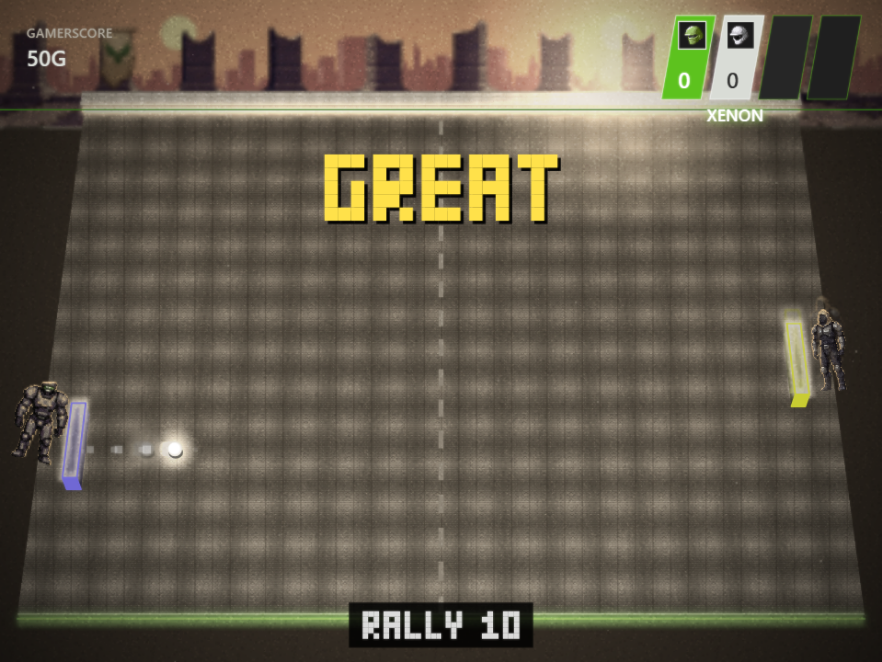
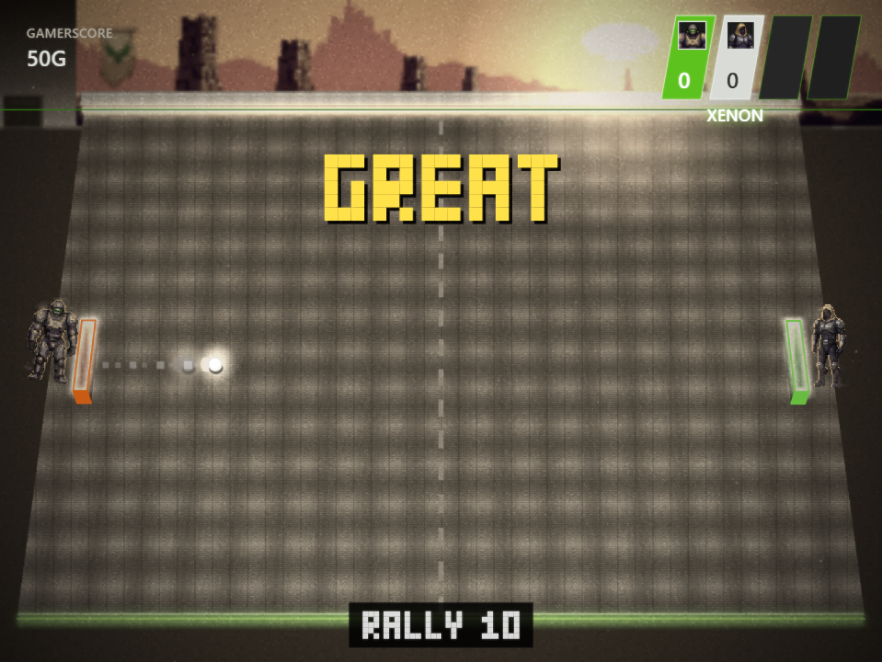
item 1234: the ruin plate drawn once, twice as wide, so the plaza has one sun; the rally frame re-shot on the final art

diff --git a/src/eras/era10-xbox360.js b/src/eras/era10-xbox360.js
@@ -79,12 +79,12 @@
   var DOF = { farY: 90, alpha: 0.6 };  // d 0.85 to 1 is field y 0 to 90
   var PADDLE = { z: 24, light: { top: 0.3, near: -0.05, side: -0.45 } };
   // The plaza (docs/ART.md era 10, item 1234). The ruin plate is the pixellab
-  // columns, 400 x 120 at one field unit a pixel, tiled so its own sun sits
-  // under the HDR sun at x 560; the banner hangs off the second column and
+  // columns, 400 x 120, drawn once at 800 x 120 so its own sun sits under the
+  // HDR sun at x 560 (tiled, it showed two suns); the banner hangs off the second column and
   // ripples; the ash drifts down and gusts sideways for half a second on a
   // point; the sun's bloom breathes. The ruin and banner go through the
   // depth-of-field buffer with the rest of the scenery, so they are soft.
-  var RUIN = { w: 400, h: 120, sunX: 245, alpha: 0.92, columns: 6 };
+  var RUIN = { w: 800, h: 120, sunX: 490, alpha: 0.92, columns: 6 };   // drawn once, twice as wide: one sun, under the HDR sun
   var BANNER = { x: 85, top: 22, w: 40, h: 60, slices: 6, ripple: 4, hz: 0.8 };
   var ASH = { n: 40, alpha: 0.3, min: 8, max: 20, gust: 60, gustS: 0.5 };
   var BREATHE = { amount: 0.05, period: 6 };
@@ -282,7 +282,7 @@
     if (img) {
       c.save();
       c.globalAlpha = RUIN.alpha;
-      for (var x = 560 - RUIN.sunX - RUIN.w; x < 800; x += RUIN.w) c.drawImage(img, x, top, RUIN.w, RUIN.h);
+      c.drawImage(img, 560 - RUIN.sunX, top, RUIN.w, RUIN.h);
       c.restore();
       return;
     }
